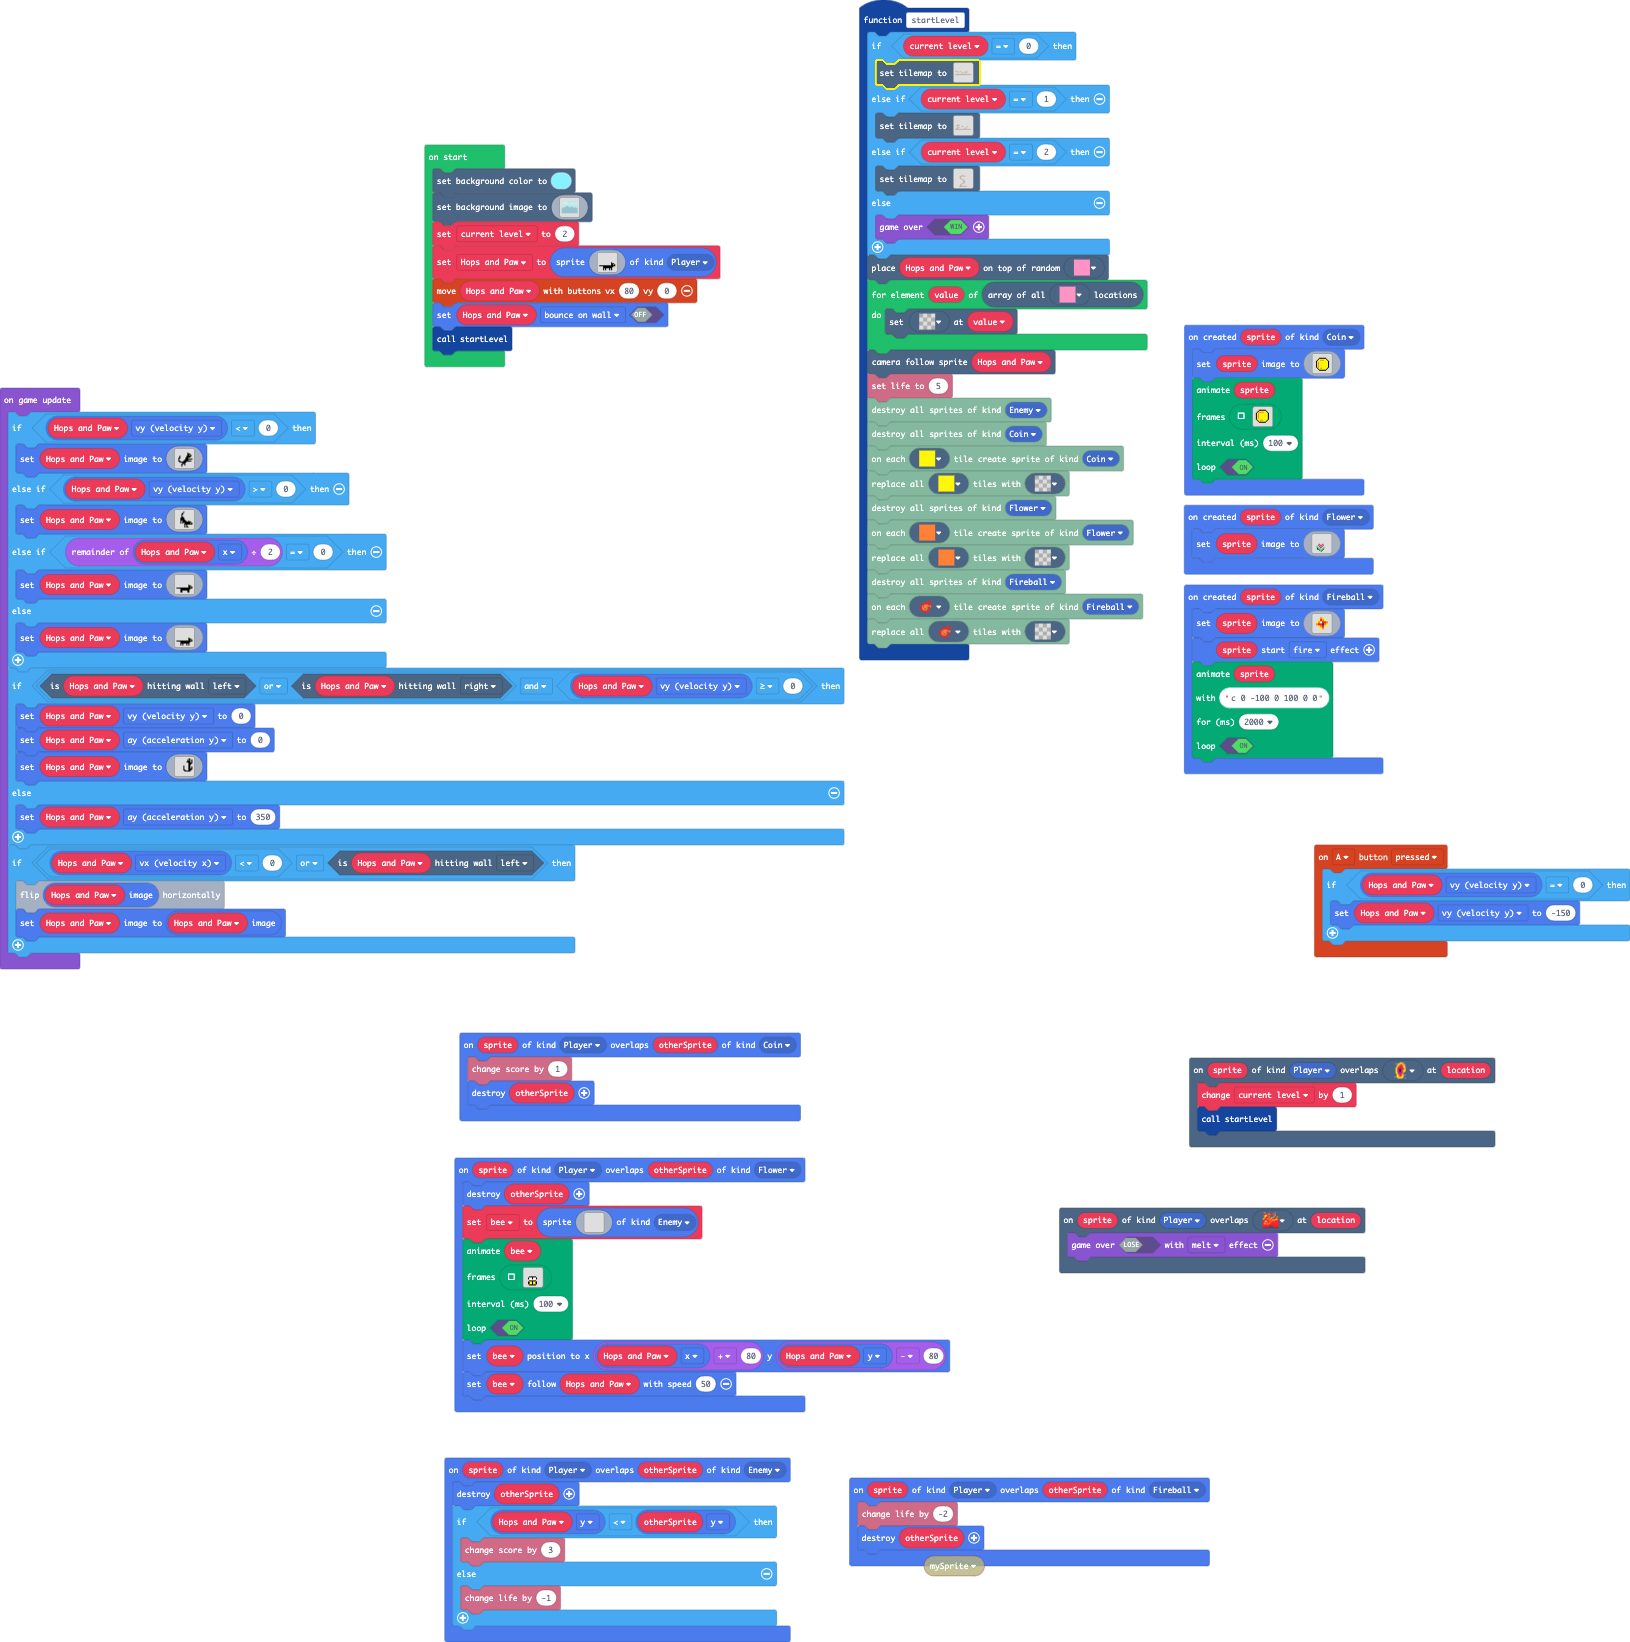
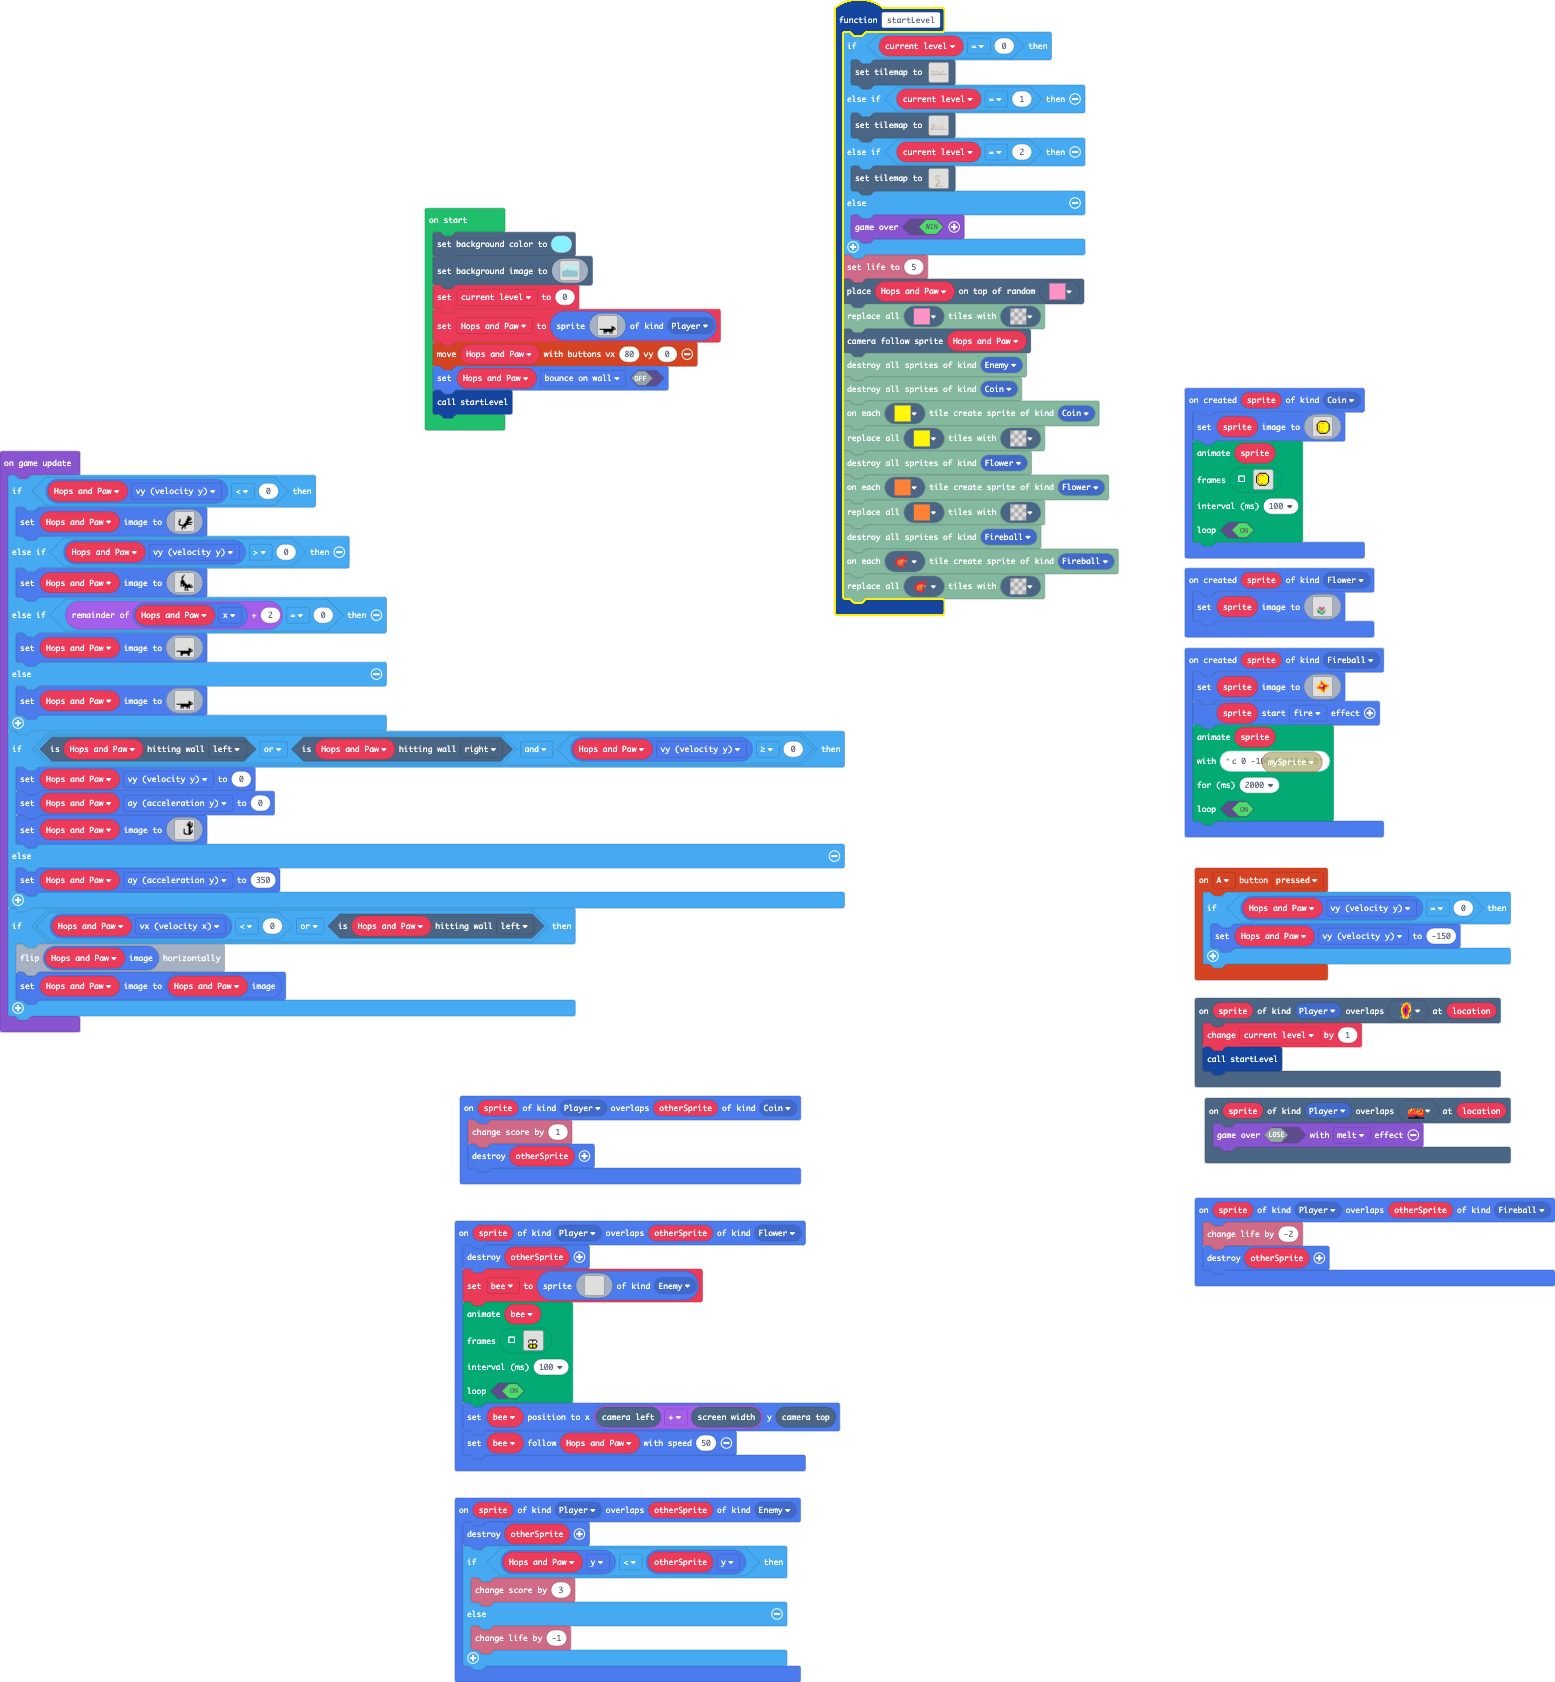
More simplification

Changed region(s): [[0.0, 0.2174, 0.7408, 1.0], [0.5248, 0.0, 1.0, 0.7765], [0.2469, 0.0621, 0.463, 0.2795]]

diff --git a/main.ts b/main.ts
@@ -520,7 +520,7 @@ sprites.onOverlap(SpriteKind.Player, SpriteKind.Flower, function (sprite, otherS
     100,
     true
     )
-    bee.setPosition(Hops_and_Paw.x + 80, Hops_and_Paw.y - 80)
+    bee.setPosition(scene.cameraLeft() + scene.screenWidth(), scene.cameraTop())
     bee.follow(Hops_and_Paw, 50)
 })
 function startLevel () {
@@ -642,12 +642,10 @@ function startLevel () {
     } else {
         game.over(true)
     }
-    tiles.placeOnRandomTile(Hops_and_Paw, myTiles.tile6)
-    for (let value of tiles.getTilesByType(myTiles.tile6)) {
-        tiles.setTileAt(value, myTiles.tile0)
-    }
-    scene.cameraFollowSprite(Hops_and_Paw)
     info.setLife(5)
+    tiles.placeOnRandomTile(Hops_and_Paw, myTiles.tile6)
+    tilemap.replaceAllTiles(myTiles.tile6, myTiles.tile0)
+    scene.cameraFollowSprite(Hops_and_Paw)
     tilemap.destorySpritesOfKind(SpriteKind.Enemy)
     tilemap.destorySpritesOfKind(SpriteKind.Coin)
     tilemap.createSpritesOnTiles(myTiles.tile4, SpriteKind.Coin)
@@ -785,7 +783,7 @@ scene.setBackgroundImage(img`
 6 6 6 6 6 6 6 6 6 6 6 6 6 6 6 6 6 6 6 6 6 6 6 6 6 6 6 6 6 6 6 6 6 6 6 6 6 6 6 6 6 6 6 6 6 6 6 6 6 6 6 6 6 6 6 6 6 6 6 6 6 6 6 6 6 6 6 6 6 6 6 6 6 6 6 6 6 6 6 6 6 6 6 6 6 6 6 6 6 6 6 6 6 6 6 6 6 6 6 6 6 6 6 6 6 6 6 6 6 6 6 6 6 6 6 6 6 6 6 6 6 6 6 6 6 6 6 6 6 6 6 6 6 6 6 6 6 6 6 6 6 6 6 6 6 6 6 6 6 6 6 6 6 6 6 6 6 6 6 6 
 6 6 6 6 6 6 6 6 6 6 6 6 6 6 6 6 6 6 6 6 6 6 6 6 6 6 6 6 6 6 6 6 6 6 6 6 6 6 6 6 6 6 6 6 6 6 6 6 6 6 6 6 6 6 6 6 6 6 6 6 6 6 6 6 6 6 6 6 6 6 6 6 6 6 6 6 6 6 6 6 6 6 6 6 6 6 6 6 6 6 6 6 6 6 6 6 6 6 6 6 6 6 6 6 6 6 6 6 6 6 6 6 6 6 6 6 6 6 6 6 6 6 6 6 6 6 6 6 6 6 6 6 6 6 6 6 6 6 6 6 6 6 6 6 6 6 6 6 6 6 6 6 6 6 6 6 6 6 6 6 
 `)
-current_level = 2
+current_level = 0
 Hops_and_Paw = sprites.create(img`
 . . . . . . . . . . . . . . . . 
 . . . . . . . . . . . . . . . . 
